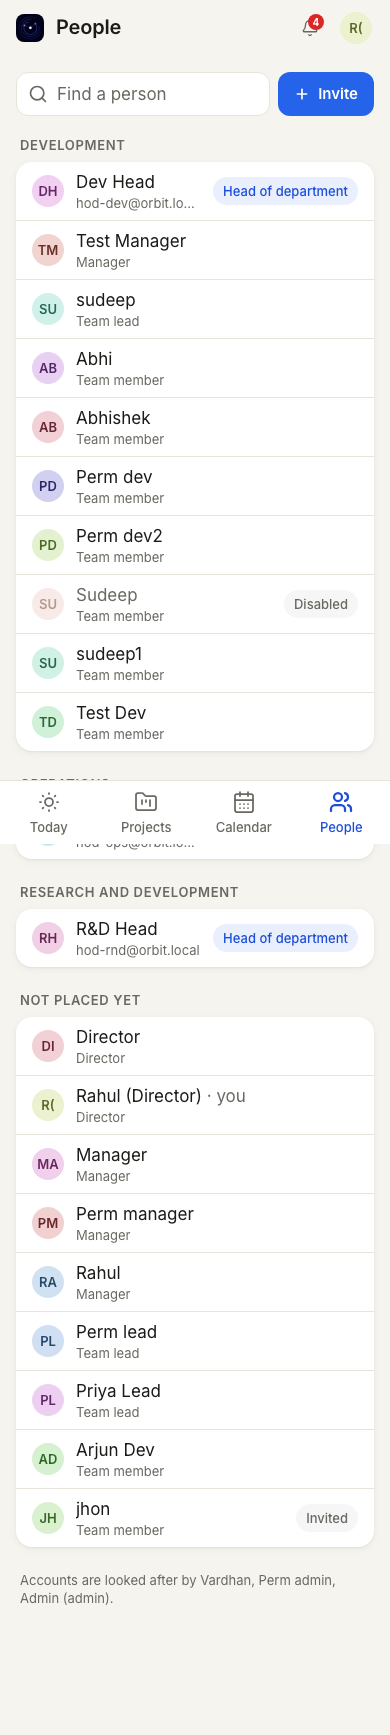
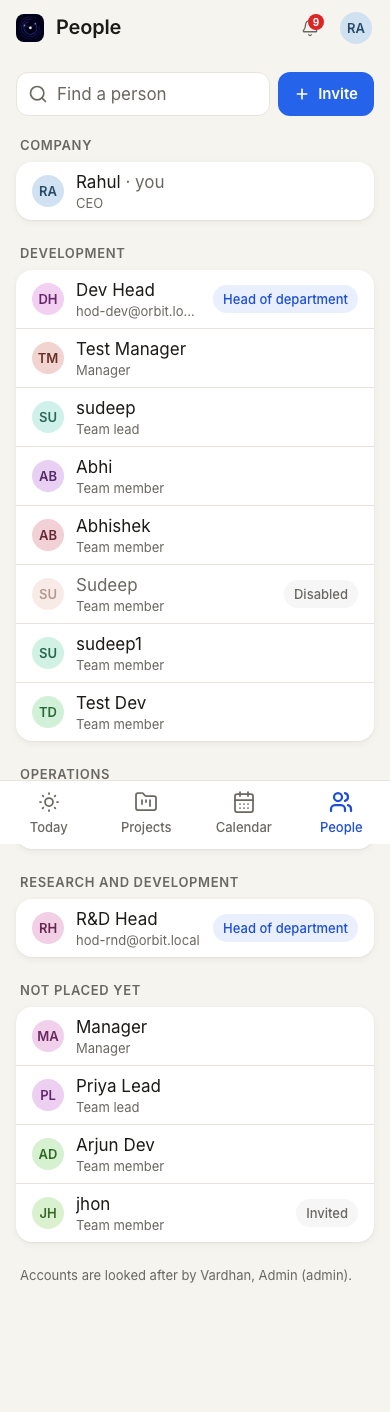
one CEO at the top: FOUNDER reads CEO, People shows a Company section above the departments, copy says CEO; on the clone founder@ is Rahul (CEO) and the two extra test accounts are gone

diff --git a/components/people/people-page.tsx b/components/people/people-page.tsx
@@ -62,11 +62,16 @@ export function PeoplePage() {
     const heads = new Map<string, string>();
     for (const d of depts) if (d.hodId && !heads.has(d.hodId)) heads.set(d.hodId, d.id);
 
+    // The top of the ladder — the CEO (and any director) — sits above the
+    // departments, not under "Not placed yet"; a head of department stays with
+    // their department.
     const byDept = new Map<string, UserDTO[]>();
     const unplaced: UserDTO[] = [];
+    const company: UserDTO[] = [];
     for (const u of people) {
       const key = heads.get(u.id) ?? u.departmentId;
-      if (!key) unplaced.push(u);
+      if (!heads.has(u.id) && (u.role === "FOUNDER" || u.role === "DIRECTOR")) company.push(u);
+      else if (!key) unplaced.push(u);
       else byDept.set(key, [...(byDept.get(key) ?? []), u]);
     }
 
@@ -82,6 +87,8 @@ export function PeoplePage() {
       sections.push({ id, name: rows[0]?.departmentName ?? "Department", hodId: null, people: [...rows].sort(order(null)) });
     }
     unplaced.sort(order(null));
+    company.sort(order(null));
+    if (company.length > 0) sections.unshift({ id: "company", name: "Company", hodId: null, people: company });
 
     return { sections, unplaced, admins, shown: people.length };
   }, [users, departments, q, canAdmin]);

diff --git a/components/help-sheet.tsx b/components/help-sheet.tsx
@@ -30,8 +30,8 @@ export function HelpSheet({ open, onClose }: { open: boolean; onClose: () => voi
           one of the next three working days.
         </Concept>
         <Concept title="How far along is a project">
-          The founder or a director sets the percentage by hand after a review, and says On track or Needs
-          work. Everyone on the project hears the result.
+          The percentage is how many of the project&apos;s tasks are done — nobody types it. After a review the
+          CEO says On track or Needs work, and everyone on the project hears the result.
         </Concept>
         <Concept title="Notes go anywhere">
           Every project, milestone and task has a notes thread. Add a photo from your camera or attach a PDF.

diff --git a/app/api/users/[id]/route.ts b/app/api/users/[id]/route.ts
@@ -56,10 +56,10 @@ export const PATCH = route(async (req: Request, { params }: Params) => {
   }
 
   if (role === "FOUNDER" && target.role !== "FOUNDER") {
-    throw new HttpError(403, "The founder role can't be granted from here.");
+    throw new HttpError(403, "The CEO role can't be granted from here.");
   }
   if (target.role === "FOUNDER" && role !== undefined && role !== "FOUNDER") {
-    throw new HttpError(403, "The founder's role can't be changed from here.");
+    throw new HttpError(403, "The CEO's role can't be changed from here.");
   }
   if (role === "PERSON" && target.role !== "PERSON") {
     throw new HttpError(403, "A person account is created from the Family tab.");

diff --git a/lib/types.ts b/lib/types.ts
@@ -311,7 +311,7 @@ void _rolesMatch;
 
 /** Role words appear ONLY on the People page. */
 export const ROLE_LABEL: Record<UserRole, string> = {
-  FOUNDER: "Founder",
+  FOUNDER: "CEO",
   DIRECTOR: "Director",
   HOD: "Head of department",
   MANAGER: "Manager",
@@ -322,7 +322,7 @@ export const ROLE_LABEL: Record<UserRole, string> = {
 };
 
 export const ROLE_SHORT_LABEL: Record<UserRole, string> = {
-  FOUNDER: "Founder",
+  FOUNDER: "CEO",
   DIRECTOR: "Director",
   HOD: "Head",
   MANAGER: "Manager",

diff --git a/app/api/milestones/[id]/outcome/route.ts b/app/api/milestones/[id]/outcome/route.ts
@@ -24,7 +24,7 @@ type Params = { params: { id: string } };
  */
 export const POST = route(async (req: Request, { params }: Params) => {
   const actor = await requireUser();
-  if (!isExecutiveRole(actor.role)) throw new HttpError(403, "Only the founder or a director records a review.");
+  if (!isExecutiveRole(actor.role)) throw new HttpError(403, "Only the CEO or a director records a review.");
 
   const parsed = await parseBody(req, milestoneOutcomeInput);
   if (!parsed.ok) return parsed.response;

diff --git a/app/api/departments/[id]/route.ts b/app/api/departments/[id]/route.ts
@@ -38,7 +38,7 @@ export const PATCH = route(async (req: Request, { params }: Params) => {
   const executive = isExecutiveRole(actor.role);
   const headsIt = actor.role === "HOD" && existing.hodId === actor.id;
   if (!executive && !headsIt) {
-    throw new HttpError(403, "Only the founder or a director can edit a department.");
+    throw new HttpError(403, "Only the CEO or a director can edit a department.");
   }
 
   const data: Prisma.DepartmentUpdateInput = {};

diff --git a/app/api/departments/route.ts b/app/api/departments/route.ts
@@ -51,7 +51,7 @@ export const GET = route(async () => {
 export const POST = route(async (req: Request) => {
   const actor = await requireUser();
   if (!isExecutiveRole(actor.role)) {
-    throw new HttpError(403, "Only the founder or a director can create a department.");
+    throw new HttpError(403, "Only the CEO or a director can create a department.");
   }
 
   const parsed = await parseBody(req, createDepartmentSchema);
